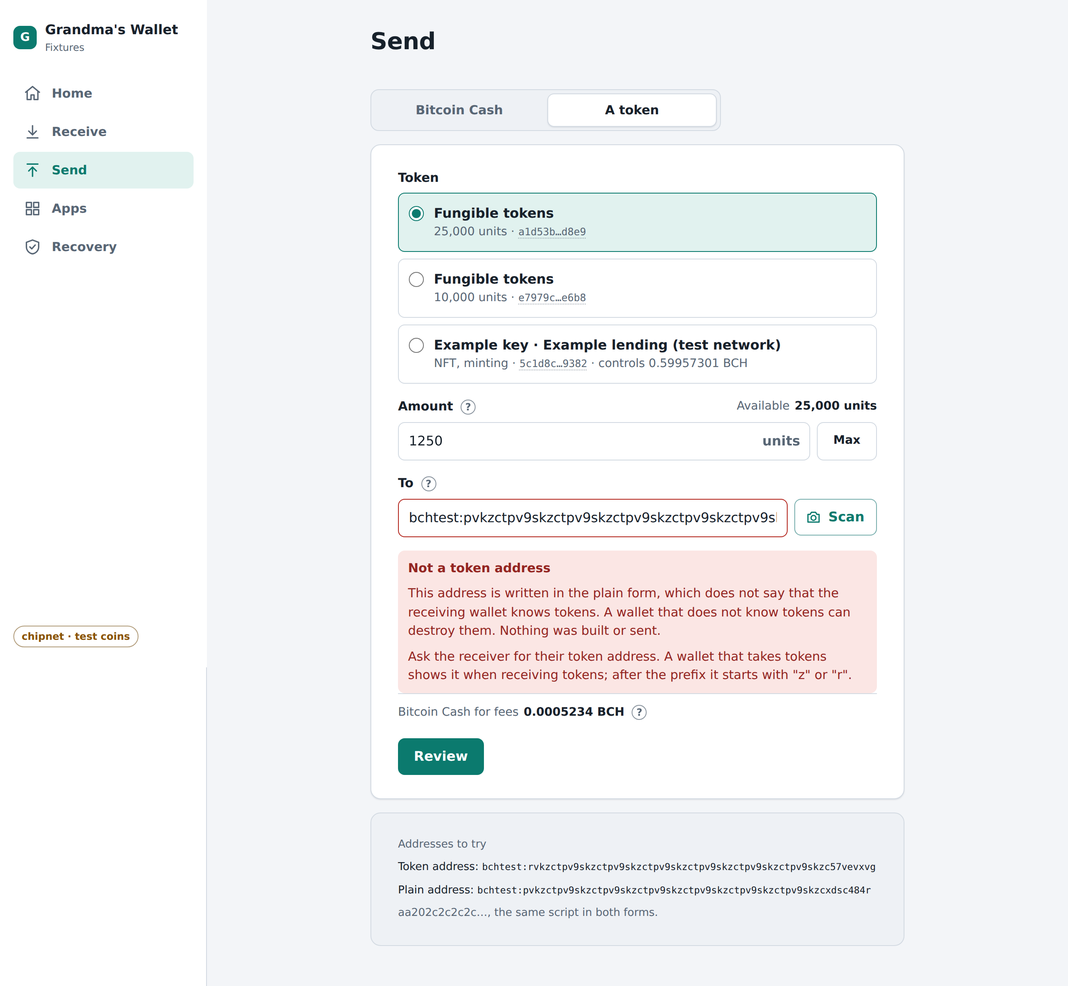
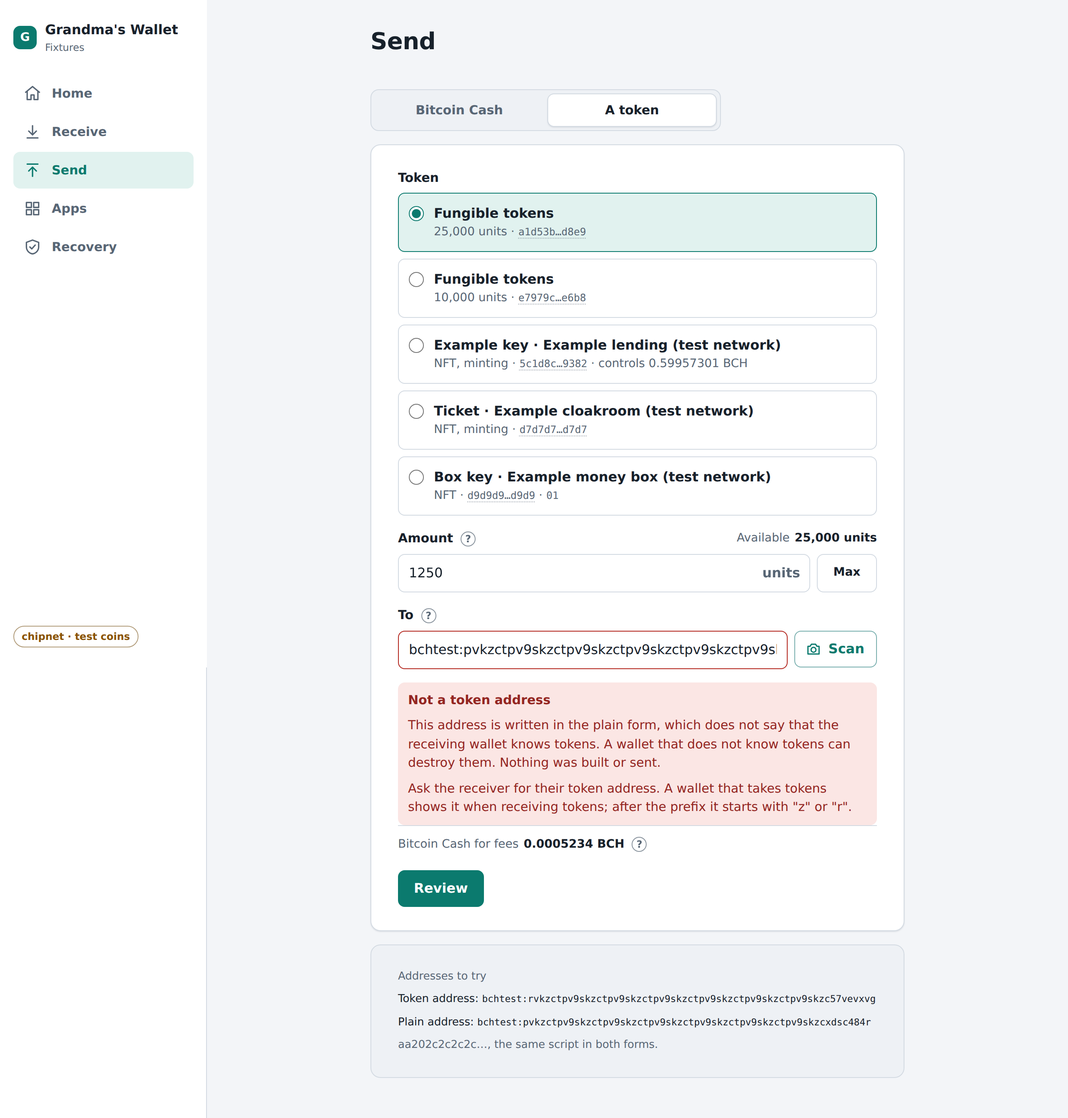
Say what a token controls before it is sent: its template and what the position holds
The Send screen names the template a record ties the token to and shows what its position holds on chain now. For a position the application keeps, it says that the application shows what it holds, with the page's address. Why, and what the token's capability allows, is behind a question mark.

diff --git a/apps/wallet/src/Send.tsx b/apps/wallet/src/Send.tsx
@@ -36,6 +36,7 @@ import type { Owner } from './OwnerApp.js';
 import { paymentAddress, tokenAddress } from './scan.js';
 import { WithScan } from './Scanner.js';
 import { takeChosenToken } from './token-choice.js';
+import { CAPABILITY_WORDS, stakeHeadline, tokenStake } from './token-stake.js';
 import { TokenAmount, rawUnits } from './token-words.js';
 import './send.css';
 
@@ -437,13 +438,13 @@ const controls = (token: SendableToken): boolean => token.kind === 'nft' && (tok
 const TokenSend = ({ owner, chosen }: { owner: Owner; chosen?: string }) => {
   const [held, setHeld] = useState<HeldToken[] | undefined>();
   // Where the positions of the wallet's records stand, for what an NFT controls. Without the chain, nothing is said of it.
-  const [positions, setPositions] = useState<RecordedPosition[]>([]);
+  const [positions, setPositions] = useState<RecordedPosition[] | undefined>();
   const reading = useTask();
   useEffect(() => {
     void reading.run('read', async () => setHeld(await owner.apps.applications.tokens()));
-    owner.apps.applications.recordedPositions().then(setPositions, () => setPositions([]));
+    owner.apps.applications.recordedPositions().then(setPositions, () => setPositions(undefined));
   }, [owner.balance?.tokens.length, owner.apps.version]);
-  const positionOf = (token: SendableToken): RecordedPosition | undefined => (token.kind === 'nft' ? positions.find((position) => position.token.outpoint === token.token.outpoint && position.status !== 'unconfirmed') : undefined);
+  const positionOf = (token: SendableToken): RecordedPosition | undefined => (token.kind === 'nft' ? positions?.find((position) => position.token.outpoint === token.token.outpoint && position.status !== 'unconfirmed') : undefined);
   const sendable = useMemo(() => (held === undefined ? undefined : sendableTokens(held)), [held]);
   const [key, setKey] = useState<string | undefined>(chosen);
   const token = sendable?.find((entry) => entry.key === key) ?? sendable?.[0];
@@ -651,7 +652,7 @@ const TokenSend = ({ owner, chosen }: { owner: Owner; chosen?: string }) => {
         {stage.at === 'review' && (
           <Card title="Check and send" cls="token-review send-review">
             <TokenReview stage={stage} />
-            {controls(stage.token) && stage.token.kind === 'nft' && <Controlled token={stage.token.token} position={positionOf(stage.token)} understood={understood} onUnderstood={setUnderstood} />}
+            {controls(stage.token) && stage.token.kind === 'nft' && <Controlled token={stage.token.token} positions={positions} understood={understood} onUnderstood={setUnderstood} />}
             <TaskStatus task={task} name="send" />
             <div class="actions">
               <Button task={task} name="send" disabled={controls(stage.token) && !understood} onClick={() => void send()}>
@@ -775,38 +776,73 @@ const TokenReview = ({ stage }: { stage: Extract<TokenStage, { at: 'review' }> }
   );
 };
 
-/** What a capability lets the token's holder do, in plain words. */
-const CAPABILITY: Record<'minting' | 'mutable', string> = {
-  minting: 'It can make new tokens of its category: whoever holds it can create more of them, fungible or NFTs, as many as they like.',
-  mutable: 'Whoever holds it can change what is written on it, its commitment, each time they move it.',
-};
+/** Where the application's page is, as a link, by its host and path. */
+const PageLink = ({ page }: { page: string }) => (
+  <a class="application-page" href={page} target="_blank" rel="noopener noreferrer">
+    {page.replace(/^https?:\/\//, '').replace(/\/$/, '')}
+  </a>
+);
 
-/** A token that gives its holder more than itself: what it controls, said plainly, and a tick before it can be sent. */
-const Controlled = ({ token, position, understood, onUnderstood }: { token: HeldToken; position: RecordedPosition | undefined; understood: boolean; onUnderstood: (value: boolean) => void }) => (
-    <div class="controls stack-s">
+/**
+ * A token that gives its holder more than itself: what it controls, from the wallet's own record, the template's name
+ * and the chain, and a tick before it can be sent. The line in view says what is at stake; why, behind a "?".
+ */
+const Controlled = ({ token, positions, understood, onUnderstood }: { token: HeldToken; positions: RecordedPosition[] | undefined; understood: boolean; onUnderstood: (value: boolean) => void }) => {
+  const stake = tokenStake(token, positions);
+  const { holds } = stake;
+  const position = holds.kind !== 'none' && holds.kind !== 'untrusted';
+  return (
+    <div class="controls stack-s" data-testid="token-stake">
       <Notice tone="warn">
         <div class="stack-s">
-          <strong>This token gives its holder more than itself</strong>
-          {token.meaning !== 'unknown' && (
-            <span>
-              {token.template === undefined ? 'A record of this wallet ties it to a position' : `It controls a position of the template "${token.template.name}"`}
-              {position?.status === 'open' && position.satoshis !== undefined ? (
+          <span class="stake-headline">
+            <strong>{stakeHeadline(stake)}</strong>{' '}
+            <Info label="About what this token controls">
+              {position ? (
                 <>
-                  , which holds <Amount satoshis={position.satoshis} exact />.
+                  A record in this wallet's backup ties this token to a position of the template. Whoever holds the token can take the position's actions; once it is sent, this wallet no longer lists the position or offers them.
+                  {holds.kind === 'application' && ' The position sits at a script that many users share. Which coin it is, and what it holds, the application says.'}
+                  {holds.kind === 'amount' && holds.places > 1 && ` The figure is what ${holds.places} places of this position hold together.`}
                 </>
-              ) : position?.status === 'closed' ? (
-                ', which holds nothing now.'
+              ) : holds.kind === 'untrusted' ? (
+                'Until the template is trusted on this phone, the wallet does not check the record against the chain, and cannot say what the token controls.'
               ) : (
-                '.'
-              )}{' '}
-              Whoever receives it controls that from then on, and can take its actions. This wallet will no longer list it or offer them.
+                'No record of this wallet ties the token to a position.'
+              )}
+              {stake.capability !== undefined && holds.kind !== 'none' && <> {CAPABILITY_WORDS[stake.capability]}</>}
+            </Info>
+          </span>
+          {holds.kind === 'amount' ? (
+            <span class="stake-holds">
+              <span>Holds now</span>
+              <strong>
+                <Amount satoshis={holds.satoshis} exact />
+              </strong>
             </span>
-          )}
-          {(token.capability === 'minting' || token.capability === 'mutable') && <span>{CAPABILITY[token.capability]}</span>}
+          ) : holds.kind === 'nothing' ? (
+            <span class="stake-holds">
+              <span>Holds now</span>
+              <strong>Nothing</strong>
+            </span>
+          ) : holds.kind === 'application' ? (
+            <span class="stake-application">
+              The application shows what it holds{holds.page === undefined ? '.' : ':'}
+              {holds.page !== undefined && <PageLink page={holds.page} />}
+            </span>
+          ) : holds.kind === 'not confirmed' ? (
+            <span>
+              <strong>Not confirmed.</strong> The chain does not bear out this wallet's record of it.
+            </span>
+          ) : holds.kind === 'not read' ? (
+            <span>What it holds can't be read just now.</span>
+          ) : holds.kind === 'untrusted' ? (
+            <span>What it controls can't be shown here.</span>
+          ) : null}
         </div>
       </Notice>
       <Choice type="checkbox" checked={understood} onChange={onUnderstood} title="I understand that whoever receives this token gets what it controls">
         Sending it cannot be undone.
       </Choice>
     </div>
-);
+  );
+};

diff --git a/apps/wallet/src/fixtures.tsx b/apps/wallet/src/fixtures.tsx
@@ -55,7 +55,8 @@ import { Welcome } from './Welcome.js';
  * already opened); the start (`show=welcome`), setting a wallet up with a recoverer's code (`show=setup-bank`,
  * `setup-friend`) and the wallet ready (`show=ready`); the Send screen for Bitcoin Cash (`show=send`, `&little` for a
  * wallet that holds too little to send everything) and with tokens to choose from (`show=send-token`, `&nft` to open
- * with the key chosen); the Receive screen (`show=receive`, `&again` for an address shown again); the Recovery screen
+ * with the key chosen, `&nft=ticket` with a key whose record names no script, `&nft=spent` with one whose position is
+ * emptied); the Receive screen (`show=receive`, `&again` for an address shown again); the Recovery screen
  * (`show=recovery`) and the user's own backup (`show=backup`, with a sample complete backup). Served by the
  * development server; the build of the page does not include it. The templates here are invented examples, as a
  * template would describe itself, and what is handed to the recoverer is a sample that their page cannot open.
@@ -343,7 +344,13 @@ const SetUpFixture = ({ kind }: { kind: 'bank' | 'friend' }) => {
 
[1 lines of base64/hex data omitted]
 const dollars: HeldToken = { category: DOLLARS, commitment: '', amount: 25_000n, place: 'address', outpoint: `${'7b'.repeat(32)}:1`, satoshis: 1_000n, meaning: 'unknown' };
-const held: HeldToken[] = [dollars, unknown, open];
+/** A key whose position sits at a script many users share: its record names no script, and the application's page. */
+const SEND_TICKET = 'd7'.repeat(32);
+const ticket: HeldToken = { category: SEND_TICKET, commitment: '', capability: 'minting', amount: 0n, place: 'address', outpoint: `${'d8'.repeat(32)}:0`, satoshis: 1_000n, meaning: 'position', template: { identifier: 'b6'.repeat(32), name: 'Example cloakroom (test network)' }, tokenName: 'Ticket' };
+/** A key whose position at a script of its own was emptied. */
+const SPENT_KEY = 'd9'.repeat(32);
+const spentKey: HeldToken = { category: SPENT_KEY, commitment: '01', capability: 'none', amount: 0n, place: 'address', outpoint: `${'da'.repeat(32)}:0`, satoshis: 1_000n, meaning: 'position', template: { identifier: 'b4'.repeat(32), name: 'Example money box (test network)' }, tokenName: 'Box key' };
+const held: HeldToken[] = [dollars, unknown, open, ticket, spentKey];
 /** Where the key's position stands, as the wallet's record and the chain say. */
 const keyPosition: RecordedPosition = {
   token: { category: open.category, commitment: open.commitment, capability: 'minting', outpoint: open.outpoint, satoshis: open.satoshis, place: 'address' },
@@ -355,6 +362,26 @@ const keyPosition: RecordedPosition = {
   lockingBytecode: 'aa20'.padEnd(70, '7'),
   satoshis: 59_957_301n,
   coins: 1,
+};
+const ticketPosition: RecordedPosition = {
+  token: { category: SEND_TICKET, commitment: '', capability: 'minting', outpoint: ticket.outpoint, satoshis: ticket.satoshis, place: 'address' },
+  template: { identifier: 'b6'.repeat(32), name: 'Example cloakroom (test network)' },
+  tokenName: 'Ticket',
+  status: 'held',
+  record: { kind: 'position', token: { category: SEND_TICKET, commitment: '', capability: 'minting' }, templateIdentifier: 'b6'.repeat(32), values: {}, applicationPage: 'https://cloakroom.example.org/coats/' },
+  standing: 'own',
+  page: 'https://cloakroom.example.org/coats/',
+};
+const spentPosition: RecordedPosition = {
+  token: { category: SPENT_KEY, commitment: '01', capability: 'none', outpoint: spentKey.outpoint, satoshis: spentKey.satoshis, place: 'address' },
+  template: { identifier: 'b4'.repeat(32), name: 'Example money box (test network)' },
+  tokenName: 'Box key',
+  status: 'closed',
+  record: { kind: 'position', token: { category: SPENT_KEY, commitment: '01', capability: 'none' }, templateIdentifier: 'b4'.repeat(32), lockingScriptIdentifier: 'boxLockingScript', roleIdentifier: 'holder', variables: { boxKey: SPENT_KEY }, values: {} },
+  standing: 'own',
+  lockingBytecode: 'aa20'.padEnd(70, '9'),
+  satoshis: 0n,
+  coins: 0,
 };
 
 /** Where the fixtures send to: a script, written in either form. */
@@ -406,7 +433,7 @@ const everythingOf = (to: Uint8Array) => {
 const tokenOwner = {
   session: { network: 'testnet', environment: { explorer: '' } },
   balance: { recoverable: spendable, vault: 0n, notRecoverable: 0n, voided: 0n, toSweep: 0n, tokens: held.map(() => ({})) },
-  apps: { version: 0, applications: { tokens: async () => held, recordedPositions: async () => [keyPosition], suggestions: [] } },
+  apps: { version: 0, applications: { tokens: async () => held, recordedPositions: async () => [keyPosition, ticketPosition, spentPosition], suggestions: [] } },
   wallet: {
     quoteTokens: async (request: TokenSendRequest) => quoteOf(request),
     sendTokens: async (request: TokenSendRequest) => ({ transactionId: '3f'.repeat(32), bytes: quoteOf(request).bytes, feeSatoshis: quoteOf(request).feeSatoshis, remainderSatoshis: 0n, quote: quoteOf(request) }),
@@ -742,7 +769,8 @@ const makeSample = async (complete: boolean): Promise<string> => {
 
 const show = params.get('show') ?? 'tokens';
 const REVIEWS: Record<string, ActionPreview> = { review: borrowing, closing, 'box-open': boxOpening, 'box-empty': boxEmptying };
-if (show === 'send-token') chooseToken(new URLSearchParams(window.location.search).has('nft') ? `nft:${open.outpoint}` : `fungible:${DOLLARS}`);
+const chosenNft = new URLSearchParams(window.location.search).get('nft');
+if (show === 'send-token') chooseToken(chosenNft === null ? `fungible:${DOLLARS}` : `nft:${chosenNft === 'ticket' ? ticket.outpoint : chosenNft === 'spent' ? spentKey.outpoint : open.outpoint}`);
 const ignore = () => undefined;
 /** The list of tokens on its own: what the wallet offers at each position, and the template the backup holds. */
 const listOwner = { apps: { applications: { suggestions: [lendingSuggestion], offeredActions: offeredFor } }, navigate: ignore } as unknown as Owner;

diff --git a/scripts/token-send-check.ts b/scripts/token-send-check.ts
@@ -6,11 +6,12 @@
 // token; a fungible token is shown by its category and in raw units, and nothing names it; an amount with a
 // fraction is refused, not rounded; "Max" fills the whole balance; a
 // plain address is refused before anything is built, with what to ask the receiver for; a token address gives the
-// review with what goes, the token change and the fee; a token that controls something says what, and cannot be
-// sent until the user ticks that they understand; the Receive screen shows the address in its token form first, and
+// review with what goes, the token change and the fee; a token that controls something names its template and what
+// its position holds now (or, where the record names no script, that the application shows it, at the record's page),
+// and cannot be sent until the user ticks that they understand; the Receive screen shows the address in its token form first, and
 // its switch shows the same address in the plain form, in the text, the copy button and the code. Screenshots, for a phone and a desktop, go to docs/screens/:
-// wallet-send-token-choice, wallet-send-token-review, wallet-send-token-controls, wallet-send-token-plain-address
-// and wallet-receive-token.
+// wallet-send-token-choice, wallet-send-token-review, wallet-send-token-controls, wallet-send-token-application,
+// wallet-send-token-plain-address and wallet-receive-token.
 //
 // usage (from the repository's root):   npx tsx scripts/token-send-check.ts [--headed] [--no-screens]
 // It takes a few seconds after the build. Port 8192 must be free.
@@ -130,11 +131,14 @@ try {
   check(!(await page.locator('#token-amount').isVisible()), 'an NFT is sent whole: no amount is asked for');
   await page.locator('#token-to').fill(tokenAddress);
   await page.getByRole('button', { name: 'Review' }).click();
-  await page.getByText('This token gives its holder more than itself').waitFor();
+  await page.getByText('It controls a position of "Example lending (test network)".').waitFor();
   const controls = await textOf(page, '.controls');
-  check(controls.includes('It controls a position of the template "Example lending (test network)", which holds 0.59957301 BCH'), 'the review says what the token controls, with what it holds');
-  check(controls.includes('Whoever receives it controls that from then on'), 'and that whoever receives it controls that from then on');
-  check(controls.includes('It can make new tokens of its category'), 'and what its minting capability lets its holder do');
+  check(/Holds now\s*0\.59957301 BCH/.test(controls), 'the review names the template and shows what the position holds now');
+  check(controls.includes('I understand that whoever receives this token gets what it controls'), 'and the tick says that whoever receives the token gets what it controls');
+  const about = page.getByRole('button', { name: 'About what this token controls' });
+  await about.click();
+  check(await page.getByText(/A record in this wallet's backup ties this token to a position of the template\..*It can make new tokens of its category/).first().isVisible(), 'the "?" says where that comes from, and what the minting capability lets its holder do');
+  await about.click();
   const send = page.getByRole('button', { name: 'Send', exact: true });
   check(await send.isDisabled(), 'the button to send stays disabled until the user ticks');
   await page.getByRole('checkbox', { name: /I understand/ }).check();
@@ -145,6 +149,22 @@ try {
   await send.click();
   await page.locator('.card.good').waitFor();
   check((await textOf(page, '.card.good')).includes('Example key'), 'once sent, the screen says what went');
+
+  // ---------------------------------------------------------------- a key whose record names no script, and one whose position is emptied
+  await page.goto(`http://localhost:${PORT}/fixtures.html?show=send-token&nft=ticket`);
+  await page.locator('#token-to').fill(tokenAddress);
+  await page.getByRole('button', { name: 'Review' }).click();
+  await page.getByText('It controls a position of "Example cloakroom (test network)".').waitFor();
+  const ticket = await textOf(page, '.controls');
+  check(/The application shows what it holds:\s*cloakroom\.example\.org\/coats/.test(ticket), 'for a key whose record names no script, the application shows what it holds, at the page the record names');
+  check((await page.locator('.controls a.application-page').getAttribute('href')) === 'https://cloakroom.example.org/coats/', 'and the page is a link');
+  check(await page.getByRole('button', { name: 'Send', exact: true }).isDisabled(), 'it too is sent only once ticked');
+  await shoot(page, 'wallet-send-token-application');
+  await page.goto(`http://localhost:${PORT}/fixtures.html?show=send-token&nft=spent`);
+  await page.locator('#token-to').fill(tokenAddress);
+  await page.getByRole('button', { name: 'Review' }).click();
+  await page.getByText('It controls a position of "Example money box (test network)".').waitFor();
+  check(/Holds now\s*Nothing/.test(await textOf(page, '.controls')), 'for an emptied position, it says that it holds nothing now');
 
   // ---------------------------------------------------------------- receiving a token
   await page.goto(`http://localhost:${PORT}/fixtures.html?show=receive`);

diff --git a/test/wallet-screens.test.ts b/test/wallet-screens.test.ts
@@ -6,6 +6,7 @@ import { keyedStrongboxTemplate, strongboxTemplate, testKey } from '@grandmas-wa
 import { describe, expect, it } from 'vitest';
 
 import { approval, consentOf, leavingLine, leavingWords, refusalOf, tokenList } from '../apps/wallet/src/review-gate.js';
+import { stakeHeadline, tokenStake } from '../apps/wallet/src/token-stake.js';
 import { type Device, deviceWith, presentation, request } from './support/applications.js';
 
 /**
@@ -146,4 +147,47 @@ describe('the wallet\'s screens on the wallet', () => {
     // A token that no record lists as a position is listed as a token, and only it.
     expect(list.tokens.map(({ outpoint }) => outpoint)).toEqual(['f:0', 'g:0']);
   });
+});
+
+describe('what the Send screen says is at stake with a token', () => {
+  const key = (more: Partial<HeldToken> = {}): HeldToken => ({ category: 'ef'.repeat(32), commitment: '01', capability: 'none', amount: 0n, place: 'address', outpoint: 'k:0', satoshis: 1_000n, meaning: 'position', template: { identifier: 'tt', name: 'Keyed strongbox' }, tokenName: 'Strongbox key', ...more });
+  const at = (status: RecordedPosition['status'], more: Partial<RecordedPosition> = {}, outpoint = 'k:0'): RecordedPosition =>
+    ({ token: { category: 'ef'.repeat(32), commitment: '01', capability: 'none', outpoint, satoshis: 1_000n, place: 'address' }, template: { identifier: 'tt', name: 'Keyed strongbox' }, status, record: { kind: 'position', templateIdentifier: 'tt', values: {} }, standing: 'own', ...more }) as RecordedPosition;
+
+  it('names the template, and shows what a script of the position\'s own holds, in all of its places', () => {
+    const stake = tokenStake(key(), [at('open', { satoshis: 30_000n }), at('open', { satoshis: 2_000n }), at('closed', { satoshis: 0n }), at('open', { satoshis: 9_999n }, 'other:0')]);
+    expect(stake).toEqual({ template: 'Keyed strongbox', holds: { kind: 'amount', satoshis: 32_000n, places: 2 } });
+    expect(stakeHeadline(stake)).toBe('It controls a position of "Keyed strongbox".');
+    expect(tokenStake(key(), [at('closed', { satoshis: 0n })]).holds).toEqual({ kind: 'nothing' });
+  });
+
+  it('sends the user to the application, at the page the record names, where the record names no script', () => {
+    expect(tokenStake(key({ capability: 'minting' }), [at('held', { page: 'https://loans.example.org/' })])).toEqual({ template: 'Keyed strongbox', holds: { kind: 'application', page: 'https://loans.example.org/' }, capability: 'minting' });
+    // The page as the record has it, where the listing gives none.
+    expect(tokenStake(key(), [at('held', { record: { kind: 'position', templateIdentifier: 'tt', values: {}, applicationPage: 'https://copy.example.net/' } })]).holds).toEqual({ kind: 'application', page: 'https://copy.example.net/' });
+    expect(tokenStake(key(), [at('held')]).holds).toEqual({ kind: 'application' });
+  });
+
+  it('says so where it cannot tell: positions not read, a record the chain does not bear out, a template not trusted', () => {
+    expect(tokenStake(key(), undefined).holds).toEqual({ kind: 'not read' });
+    expect(tokenStake(key(), []).holds).toEqual({ kind: 'not read' });
+    expect(tokenStake(key(), [at('unconfirmed', { satoshis: 5_000n })]).holds).toEqual({ kind: 'not confirmed' });
+    const untrusted = tokenStake(key({ meaning: 'incomplete' }), []);
+    expect(untrusted).toEqual({ template: 'Keyed strongbox', holds: { kind: 'untrusted' } });
+    expect(stakeHeadline(untrusted)).toBe('A record ties it to "Keyed strongbox", a template this phone does not trust yet.');
+    // A token no record ties to anything: what its capability lets its holder do.
+    const { template: _template, ...bare } = key({ meaning: 'unknown', capability: 'minting' });
+    const minting = tokenStake(bare, []);
+    expect(minting).toEqual({ holds: { kind: 'none' }, capability: 'minting' });
+    expect(stakeHeadline(minting)).toMatch(/^It can make new tokens of its category/);
+  });
+
+  it('reads the amount from the chain for a position the wallet made', async () => {
+    const device = await deviceWith([100_000n, 100_000n]);
+    await device.applications.carryOut(request(keyedBox, 'open', 'holder', { amount: 30_000, label: '01' }));
+    const positions = await device.applications.recordedPositions();
+    const held = (await device.applications.tokens()).find((token) => token.meaning === 'position');
+    expect(held).toBeDefined();
+    expect(tokenStake(held as HeldToken, positions)).toEqual({ template: 'Keyed strongbox', holds: { kind: 'amount', satoshis: 30_000n, places: 1 } });
+  }, 60_000);
 });

diff --git a/apps/wallet/src/token-stake.ts b/apps/wallet/src/token-stake.ts
@@ -1,0 +1,68 @@
+import type { HeldToken, RecordedPosition } from '@grandmas-wallet/app';
+
+/**
+ * What goes with an NFT when it is sent, from what the wallet knows by itself: the record that ties it to a position,
+ * the template's names, and for a position at a script of its own what that script holds on chain now (proposal
+ * sections 10.4 and 17). No application is known here: a position at a script many users share is the application's
+ * to show, at the page its record names.
+ */
+export interface TokenStake {
+  /** The template a record ties the token to, by its name. */
+  template?: string;
+  /** What the position holds, as far as the wallet can tell. */
+  holds:
+    /** A script of the position's own holds coins: in all, at so many scripts. */
+    | { kind: 'amount'; satoshis: bigint; places: number }
+    /** Its script holds nothing now. */
+    | { kind: 'nothing' }
+    /** The record names no script: the application shows what it holds, at its page where the record names one. */
+    | { kind: 'application'; page?: string }
+    /** The chain does not bear out the record. */
+    | { kind: 'not confirmed' }
+    /** The positions are not read yet, or could not be. */
+    | { kind: 'not read' }
+    /** A record names a template this phone does not trust. */
+    | { kind: 'untrusted' }
+    /** No record ties the token to anything. */
+    | { kind: 'none' };
+  /** What a capability lets the token's holder do besides. */
+  capability?: 'minting' | 'mutable';
+}
+
+/**
+ * What sending this NFT gives away.
+ * @param positions - the positions of the wallet's records as last read, or `undefined` while they are not
+ */
+export const tokenStake = (token: HeldToken, positions: RecordedPosition[] | undefined): TokenStake => {
+  const capability = token.capability === 'minting' || token.capability === 'mutable' ? { capability: token.capability } : {};
+  const template = token.template === undefined ? {} : { template: token.template.name };
+  if (token.meaning === 'unknown') return { holds: { kind: 'none' }, ...capability };
+  if (token.meaning === 'incomplete') return { ...template, holds: { kind: 'untrusted' }, ...capability };
+  const own = positions?.filter((position) => position.token.outpoint === token.outpoint) ?? [];
+  const confirmed = own.filter((position) => position.status !== 'unconfirmed');
+  const named = template.template ?? own.find((position) => position.template.name !== undefined)?.template.name;
+  const base = named === undefined ? {} : { template: named };
+  const shared = confirmed.find((position) => position.status === 'held');
+  if (shared !== undefined) {
+    const page = shared.page ?? shared.record.applicationPage;
+    return { ...base, holds: { kind: 'application', ...(page === undefined ? {} : { page }) }, ...capability };
+  }
+  const open = confirmed.filter((position) => position.status === 'open' && position.satoshis !== undefined);
+  if (open.length > 0) return { ...base, holds: { kind: 'amount', satoshis: open.reduce((sum, position) => sum + (position.satoshis ?? 0n), 0n), places: open.length }, ...capability };
+  if (confirmed.some((position) => position.status === 'closed')) return { ...base, holds: { kind: 'nothing' }, ...capability };
+  if (own.length > 0) return { ...base, holds: { kind: 'not confirmed' }, ...capability };
+  return { ...base, holds: { kind: 'not read' }, ...capability };
+};
+
+/** What a capability lets the token's holder do, in plain words. */
+export const CAPABILITY_WORDS: Record<'minting' | 'mutable', string> = {
+  minting: 'It can make new tokens of its category: whoever holds it can create more of them, fungible or NFTs, as many as they like.',
+  mutable: 'Whoever holds it can change what is written on it, its commitment, each time they move it.',
+};
+
+/** The line in view: what the token controls, or, for a token no record ties to anything, what its capability allows. */
+export const stakeHeadline = (stake: TokenStake): string => {
+  if (stake.holds.kind === 'untrusted') return stake.template === undefined ? 'A record ties it to a template this phone does not have.' : `A record ties it to "${stake.template}", a template this phone does not trust yet.`;
+  if (stake.holds.kind === 'none') return stake.capability === undefined ? 'Nothing here says what it controls.' : CAPABILITY_WORDS[stake.capability];
+  return stake.template === undefined ? 'It controls a position of an application.' : `It controls a position of "${stake.template}".`;
+};

diff --git a/apps/wallet/src/send.css b/apps/wallet/src/send.css
@@ -45,6 +45,11 @@
 .token-review .kv dd strong { font-weight: 650; }
 .controls .choice { margin-top: 4px; }
 .token-review .controls { margin-top: 12px; }
+.stake-headline { display: inline; }
+.stake-headline .info { vertical-align: middle; }
+.stake-holds { display: flex; flex-wrap: wrap; align-items: baseline; justify-content: space-between; gap: 2px 12px; padding-top: 8px; border-top: 1px solid color-mix(in srgb, currentColor 18%, transparent); }
+.stake-application { display: flex; flex-direction: column; gap: 2px; }
+.stake-application .application-page { font-weight: 600; }
 
 @media (min-width: 960px) {
   .send-page .card { padding: 28px 32px; }
